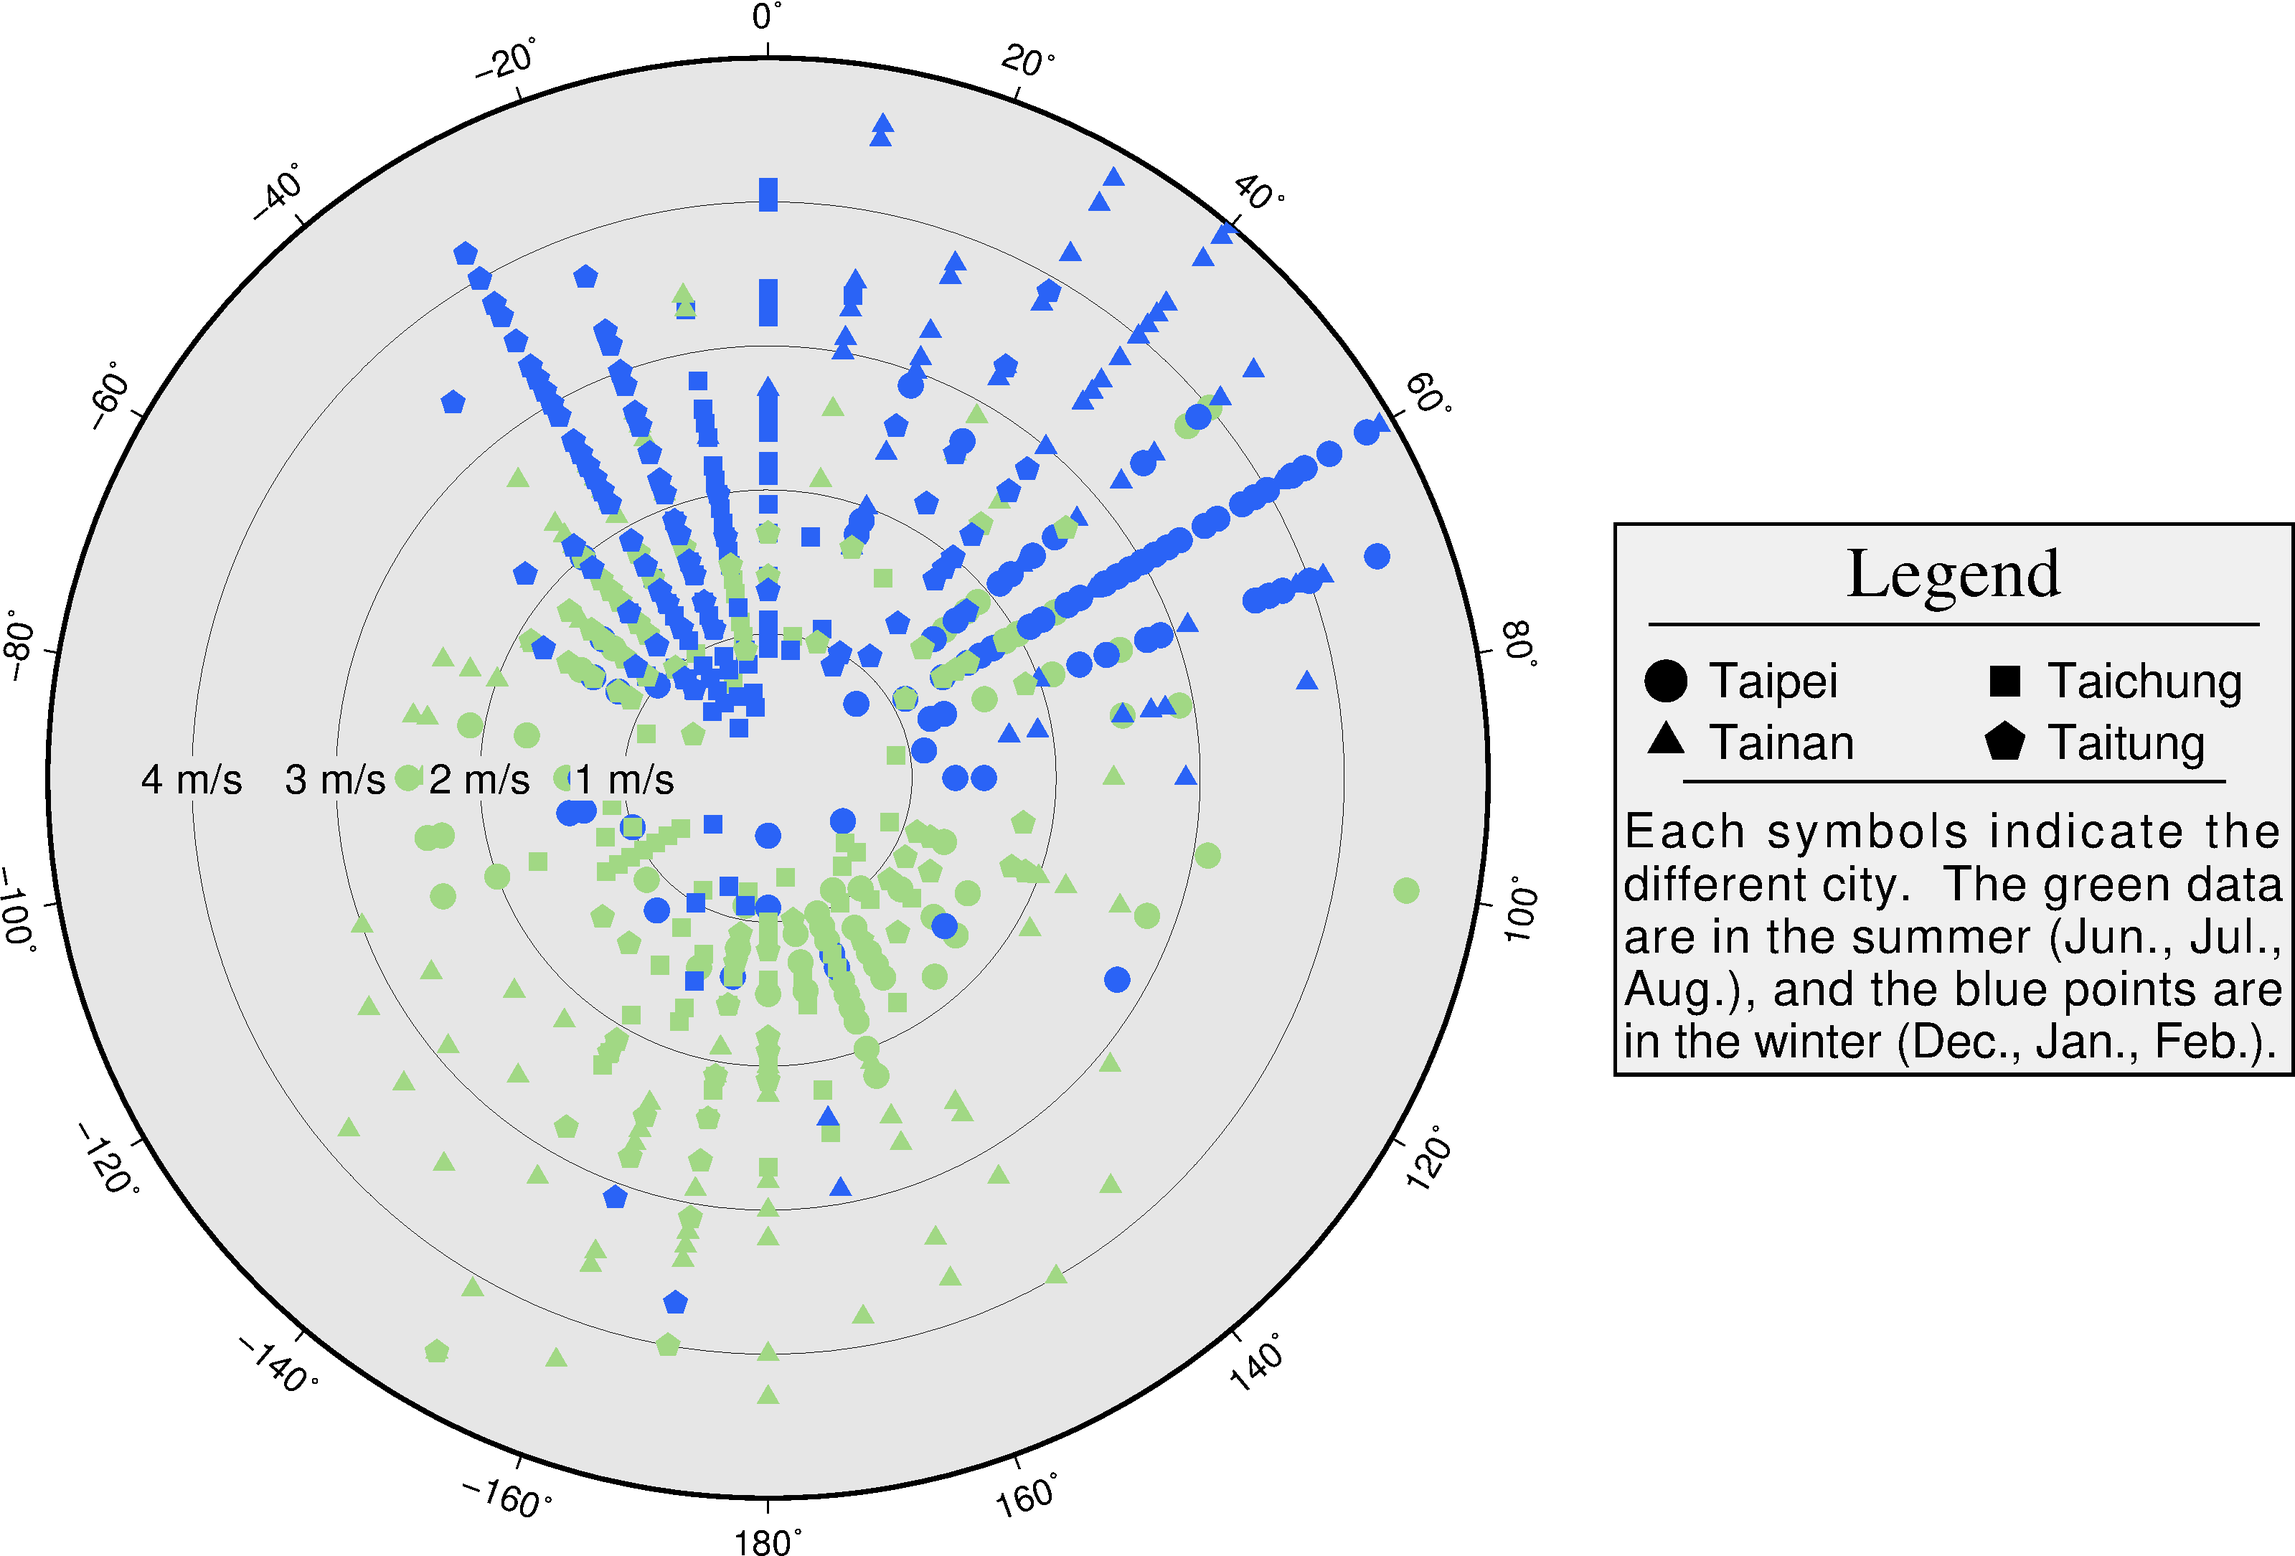
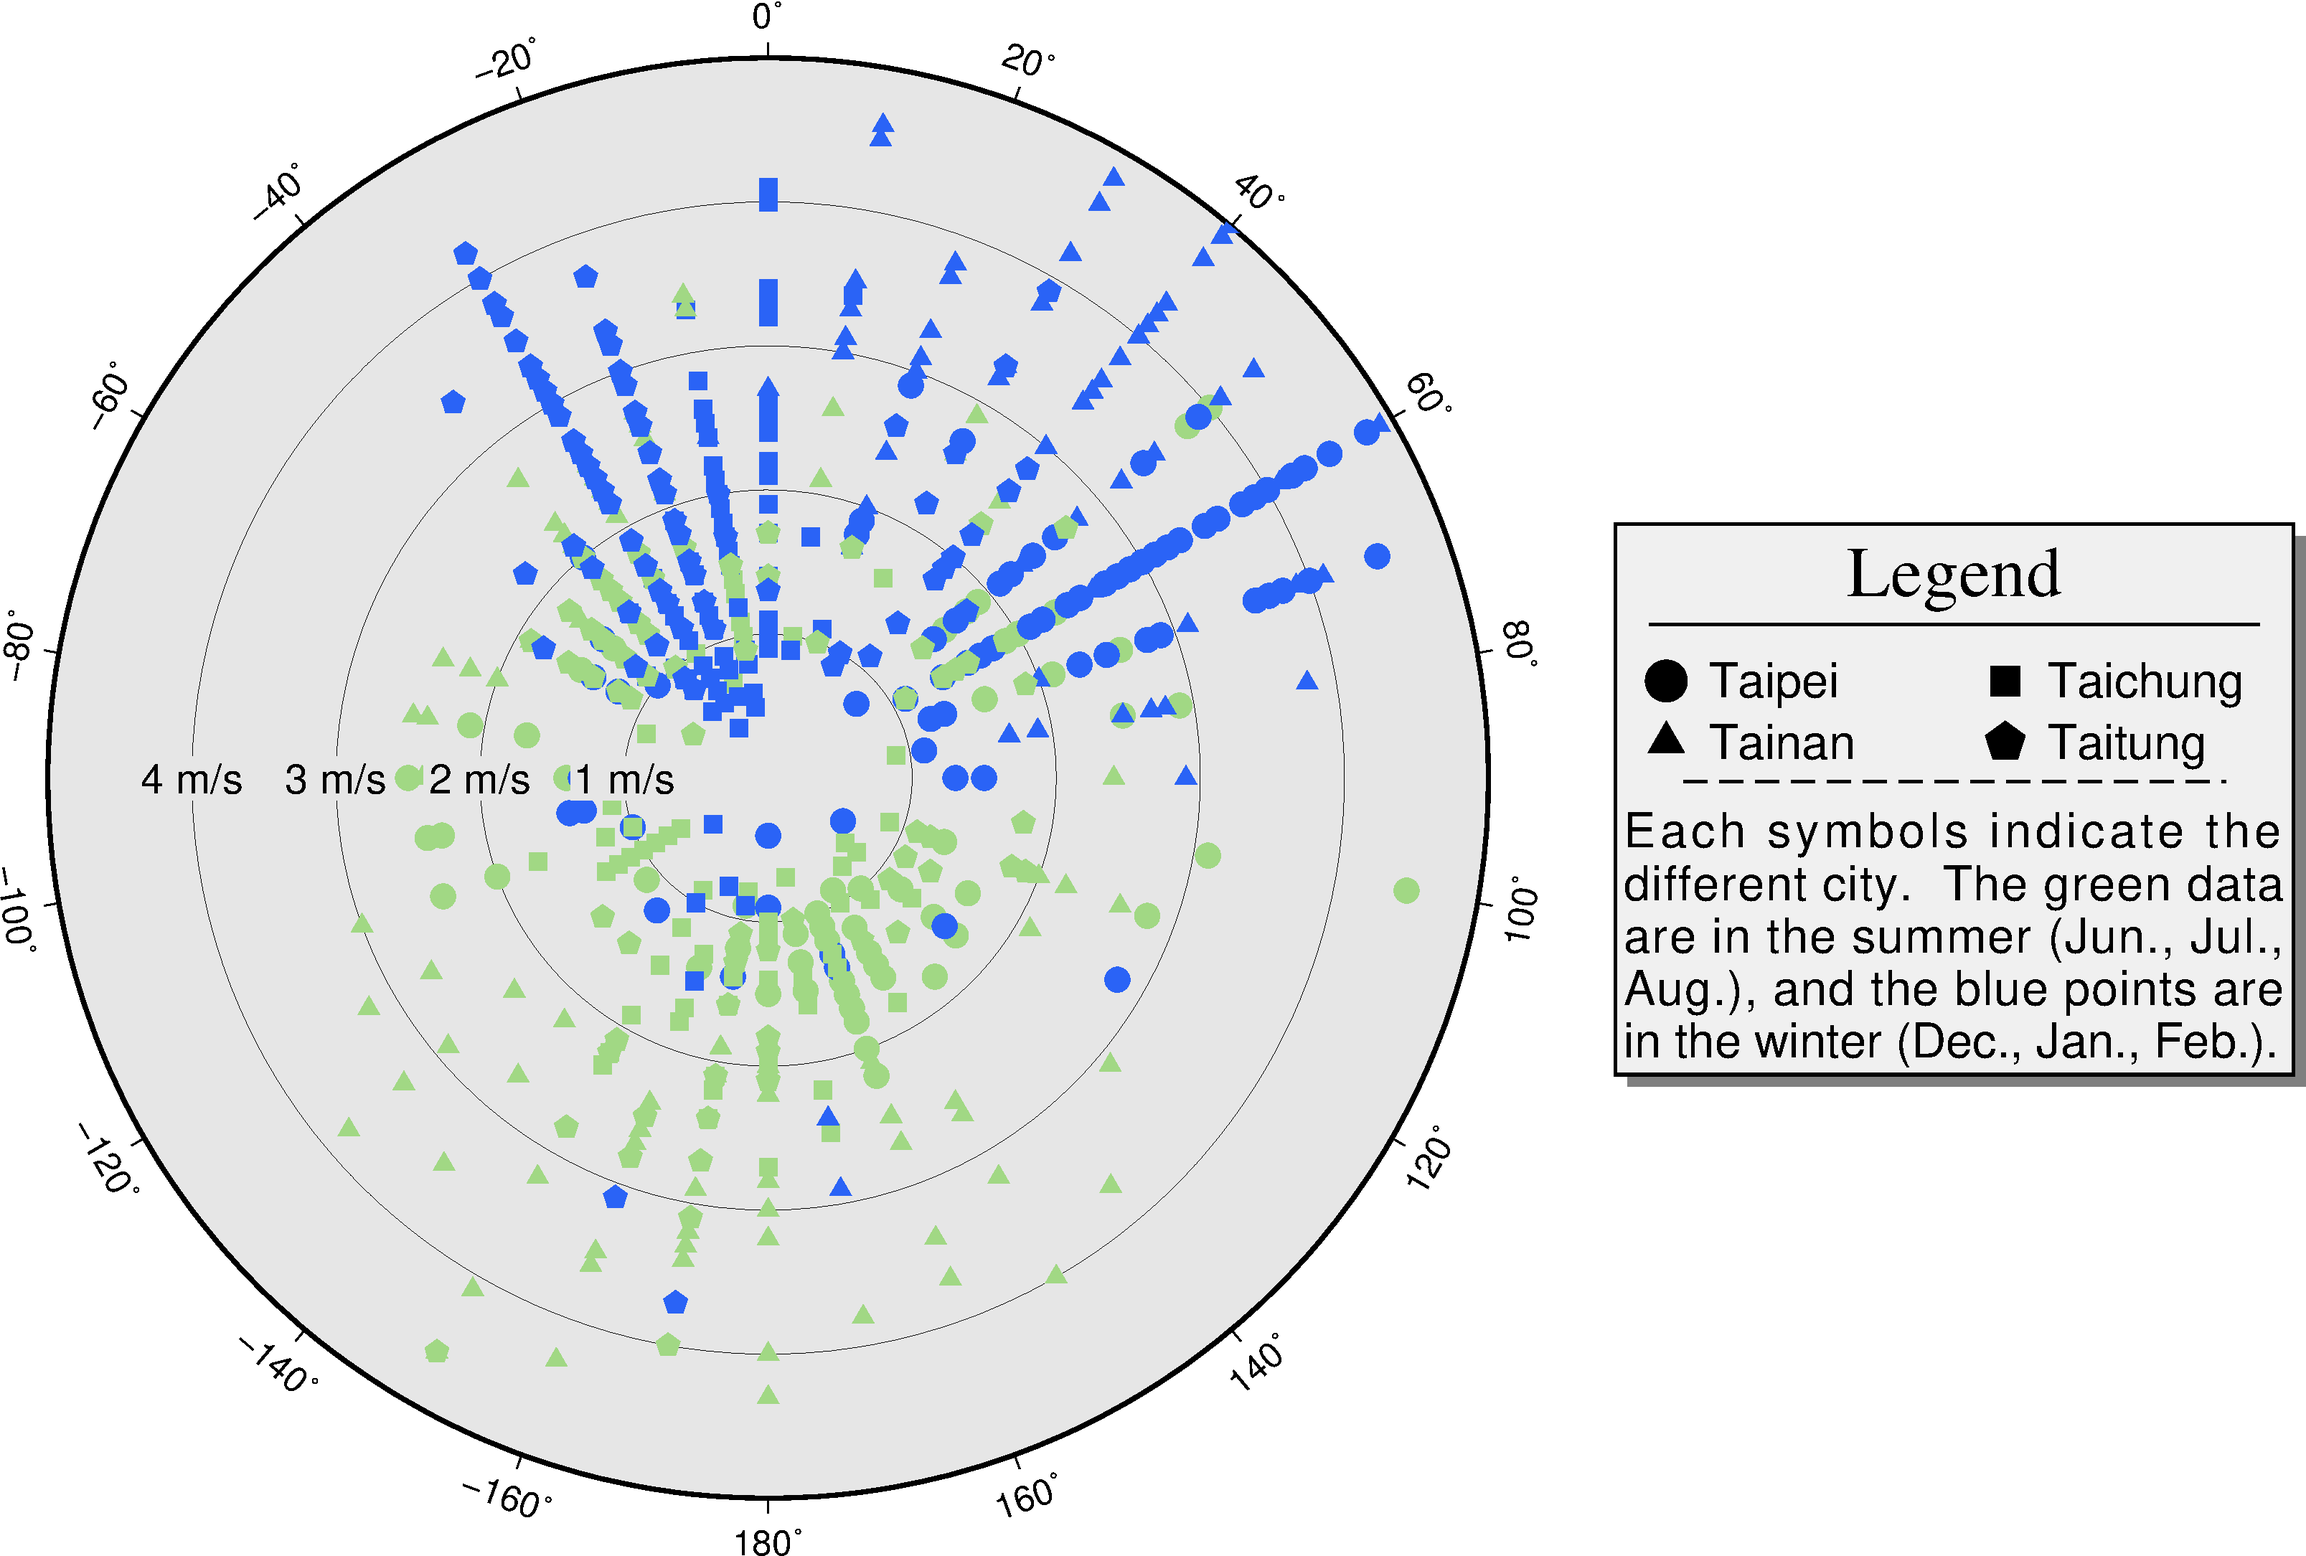
update 6-6

diff --git a/docs/xy_figure.md b/docs/xy_figure.md
@@ -327,20 +327,52 @@ echo S .5 s .5 0 0 1 Taichung >> tmp
 echo G .1 >> tmp
 echo S .5 t .5 0 0 1 Tainan >> tmp
 echo S .5 n .5 0 0 1 Taitung >> tmp
-echo D 0.8 1p >> tmp
+echo D 0.8 1p,0,- >> tmp
 echo P >> tmp
 echo G .1 >> tmp
 echo T Each symbols indicate the different city. >> tmp
 echo T The green data are in the summer (Jun., Jul., Aug.), >> tmp
 echo T and the blue points are in the winter (Dec., Jan., Feb.). >> tmp
-gmt gmtset FONT_ANNOT_PRIMARY=16p
-gmt pslegend tmp -R -JP -C.1/.1 -Dx18.5/5+w8 -F+g240+p1 -K -O >> %ps%
+gmt pslegend tmp -R -JP -C.1/.1 -Dx18.5/5+w8 -F+g240+p1+s4p/-4p/gray50 ^
+--FONT_ANNOT_PRIMARY=16p -K -O >> %ps%
 
 gmt psxy -R -JX -T -O >> %ps%
 gmt psconvert %ps% -Tg -A -P
-del gmt.conf tmp
+del tmp
 ```
 
+本節學習的新指令:
+* 第3行: `-JPa17`其中**a**表示由北開始，如果沒有則是從東開始；**17**設定圖寬度。
+`-R0/360/0/5`前兩個數字設定圓的角度範圍，也可以用-180/180表示，只能給整圓和半圓(0/180)；
+後面則是距離範圍。`-BN`只用給定N，大寫顯示註解、小寫則無。
+* 第5~15行: 利用`awk`讀取各城市的資料，用不同的符號來表示，季節則用不同顏色顯示。
+* 第17~21行: 寫風速的註解。
+* 第24~38行: 示範如何編寫配合`pslegend`的文檔，按順序介紹:
+  * **H**設定標題，字大小 字體 標題文字
+  * **D**繪製水平線，兩測的空白間距 線屬性
+  * **G**給一個垂直空白
+  * **N**修改圖例中的欄數，給予數量(等寬)或是數量 [欄寬1 欄寬2 ...]
+  * **S**繪製圖例符號，格式為符號左邊界距離 符號代碼 符號大小 符號顏色 符號筆觸 文字左邊界距離 文字內容
+  * **P**開啟段落模式
+  * **T**寫一段文字
+* 第39,40行: 示範`pslegend`的用法:
+  * `-C`: 設定圖例邊框與內部圖例之間的空白，默認是4p/4p。
+  * `-D`: 設定圖例框的位置及大小。
+    * **x**是參考點方式接上位移單位，共有**g**, **j**, **J**, **n**, **x**。
+      * **g**用數據的座標系
+      * **j**指定底圖的9個錨點(BL, BC, BR ...)
+      * **J**指定底圖錨點並同時給定圖例錨點。假設底圖錨點為BR、圖例錨點TL，則圖例會出現在底圖的右下角
+      * **n**正規化座標系(0~1之間)
+      * **x**用底圖的座標，類似`-X`、`-Y`的用法
+    * **+w**圖例框的寬度，可給長/高，如寬不設定或為0，則GMT會自動估算高度
+  * `-F`: 圖例框的屬性。
+    * **+g**圖例框內的底色
+    * **+p**圖例框的筆觸
+    * **+s**設定陰影
+  * `--FONT_ANNOT_...`: 改變<mark>gmtset</mark>，只對這行有效。
+
+
+  
 ---
 
 [上一章](/projection.md) -- [下一章](/xy_figure.md)
